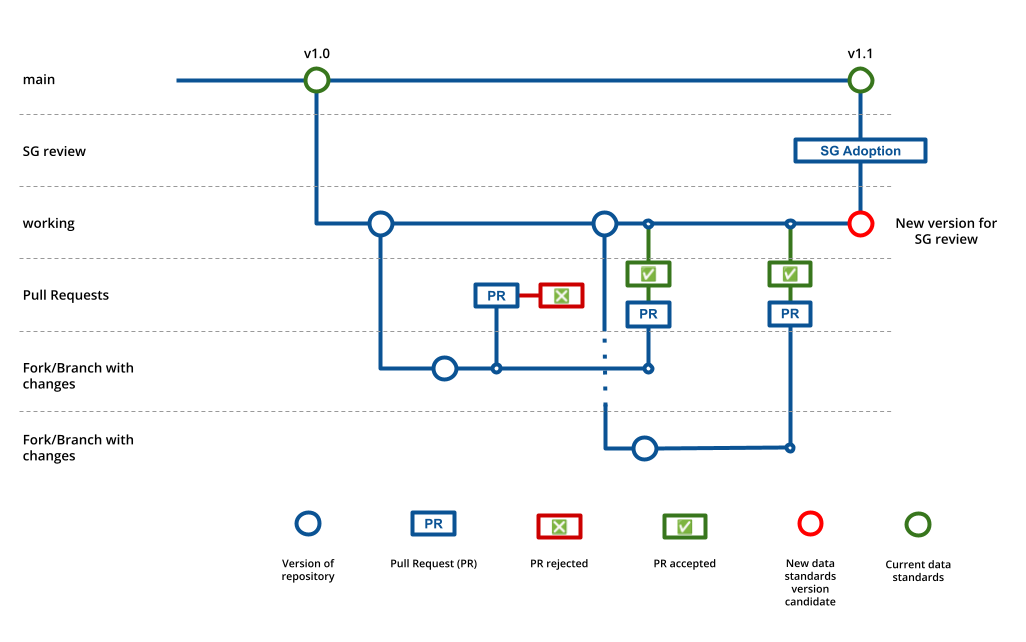
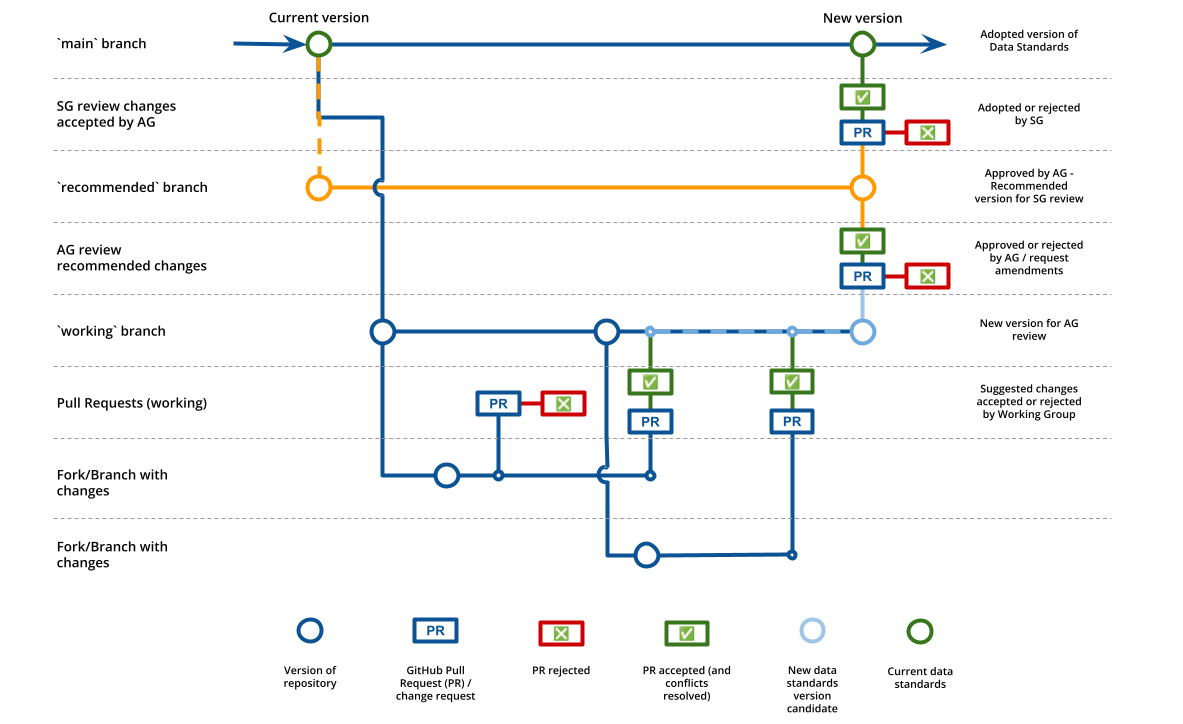
The process documentation for changing and updating these data standards has been updated.
* Clarification of the process of updating the data standards
* Clarification of the use of the `working` > `recommended` > `main` branches to manage the process
* An improved and updated image of the process
* Clarification that a decision is needed at AG and SG to approve and adopt the data standards
* Clarification that how the decision is made is at AG and SG is at their discretion

diff --git a/docs/governance/update-process.md b/docs/governance/update-process.md
@@ -12,7 +12,7 @@ A PR will be created for every change once the Data Standards are agreed.
 
 ## Allowing changes from outside Stream
 
-It was agreed that the repository would allow for PRs to be created from external repositories.
+It was agreed that the repository would allow and actively encourage PRs to be generated from external repositories rather than via changes to the repository directly.
 
 This decision provides for organisations and people external to Stream who want to suggest changes to be able to do so.
 
@@ -22,24 +22,35 @@ It was agreed that Stream would adapt and adopt the "Merge a Pull Request" proce
 
 ### Stream process for merging a pull request
 
-1. The `main` branch is the current version of the Stream data standards.
-2. The `working` branch is where the next version of the data standards is worked on.
-3. Pull requests (PR) which are the same as change requests, should be to merge onto the `working` branch. Any PRs not merging to the `working` branch will be rejected.
-4. A version of the `working` branch will be tagged for review by the Steering Group, and only changes included in this version will be merged onto the `main` branch after approval by the Steering Group. The `working` branch can still accept changes after the version has been tagged, but these changes will be included for review in the next version of the data standards.
-5. Any PR must have at least 1 review from repository administrators before being merged on the `working` branch. 
-6. No PR should be accepted and merged by the person who created the PR or anyone from their organisation. This is to ensure that there is a separation of duties and that the PR is reviewed by someone who is not the author.
-7. If there are any changes needed for a request, the PR should be rejected and a new PR created after the changes have been made.
-8. The GitHub review UI should be used to discuss changes, mark a PR as approved or requiring changes.*
-9. The GitHub UI should be used to merge the PR.*
+1. The `main` branch is the current version of the Stream data standards adopted<sup>[\[1\]](#process-ref-1)</sup> by the Stream Steering Group (SG) - [link to `main` branch (Steering Group approved)](https://github.com/icebreakerone/stream-data-standards/)
+2. The `recommended` branch is the version of Stream data standards approved<sup>[\[1\]](#process-ref-1)</sup> by the Stream Technology Advisory Group (AG) - [link to `recommended` branch (Advisory Group approved)](https://github.com/icebreakerone/stream-data-standards/tree/recommended)
+3. The `working` branch is where the next version of the data standards is worked on - [link to `working` branch](https://github.com/icebreakerone/stream-data-standards/tree/working)
+4. GitHub Pull requests (PRs) are the change request process used to manage updates.
+5. Changes to the data standards will be provided via a PR to the `working` branch.
+6. Any PRs not merging to the `working` branch will be rejected.
+7. Any PR must have at least 1 review from repository administrators before being merged onto the `working` branch. 
+8. To ensure that there is a separation of duties a PR into the `working` branch should not be accepted by the person who created the PR or anyone from their organisation. If a change is accepted and promoted by the same individual or organisation due to necessity or a lack of reviewers being available, this should be highlighted in the PR so that the AG review process is fully aware.
+9. The GitHub review UI should be used to discuss changes, mark a PR as approved or requiring changes<sup>[\[2\]](#process-ref-2)</sup>
+10. The GitHub UI should be used to merge the PR<sup>[\[2\]](#process-ref-2)</sup>
+11. Before an AG meeting, if there are accepted PRs/changes to the `working` branch, a new PR to promote that version of the `working` branch to the `recommended` branch will be created.
+12. The AG should review the changes and will approve or reject the changes.
+13. If there is an approval for the `working` changes in the AG, the `recommended` branch will be updated to that version, and a PR to promote the new `recommended` branch to the `main` branch will be created.
+14. The SG will be notified of the changes, and if there are no objections, the change will be accepted at the next meeting.
 
-*The GitHub PR review interface is: [https://github.com/icebreakerone/stream-data-standards/pulls](https://github.com/icebreakerone/stream-data-standards/pulls).
+<sup><a name="process-ref-1">[1]</a></sup>
+The process of approval and adoption, e.g. a formal vote or acceptance if there are no objections or similar, is at the discretion of the AG and SG respectively. If no definite decision is recorded but the changes have been provided to an AG or SG meeting, the changes will be deemed to have been accepted.
 
-A visual representation of the repository branching and process is shown here:
+<sup><a name="process-ref-2">[2]</a></sup>
+The Stream data standards GitHub PR review interface is: [https://github.com/icebreakerone/stream-data-standards/pulls](https://github.com/icebreakerone/stream-data-standards/pulls).
+
+A visual representation of the repository branching, PR, and review process is shown here:
 
 ![Overview of Stream data standards change process](./assets/change-process.png)
 
 ## Repository administrators
 
-It was agreed that the Stream Advisory Group responsible for technology would have the authority to name and manage those who are responsible for managing Pull Requests and repository administration.
+It was agreed that the Stream Advisory Group responsible for technology would have the authority to name and manage those who are responsible for managing and accepting Pull Requests and those who are repository administration.
 
-The repository administrators will be agreed by the Advisory Group, and will have the technical expertise and/or water industry knowledge to be able to understand and accept change requests.
+The repository administrators will also be agreed by the Advisory Group.
+
+It is expected that the Advisory Group will assess the technical expertise and/or water industry knowledge of these individuals so that they will be able to understand and accept any change requests.
